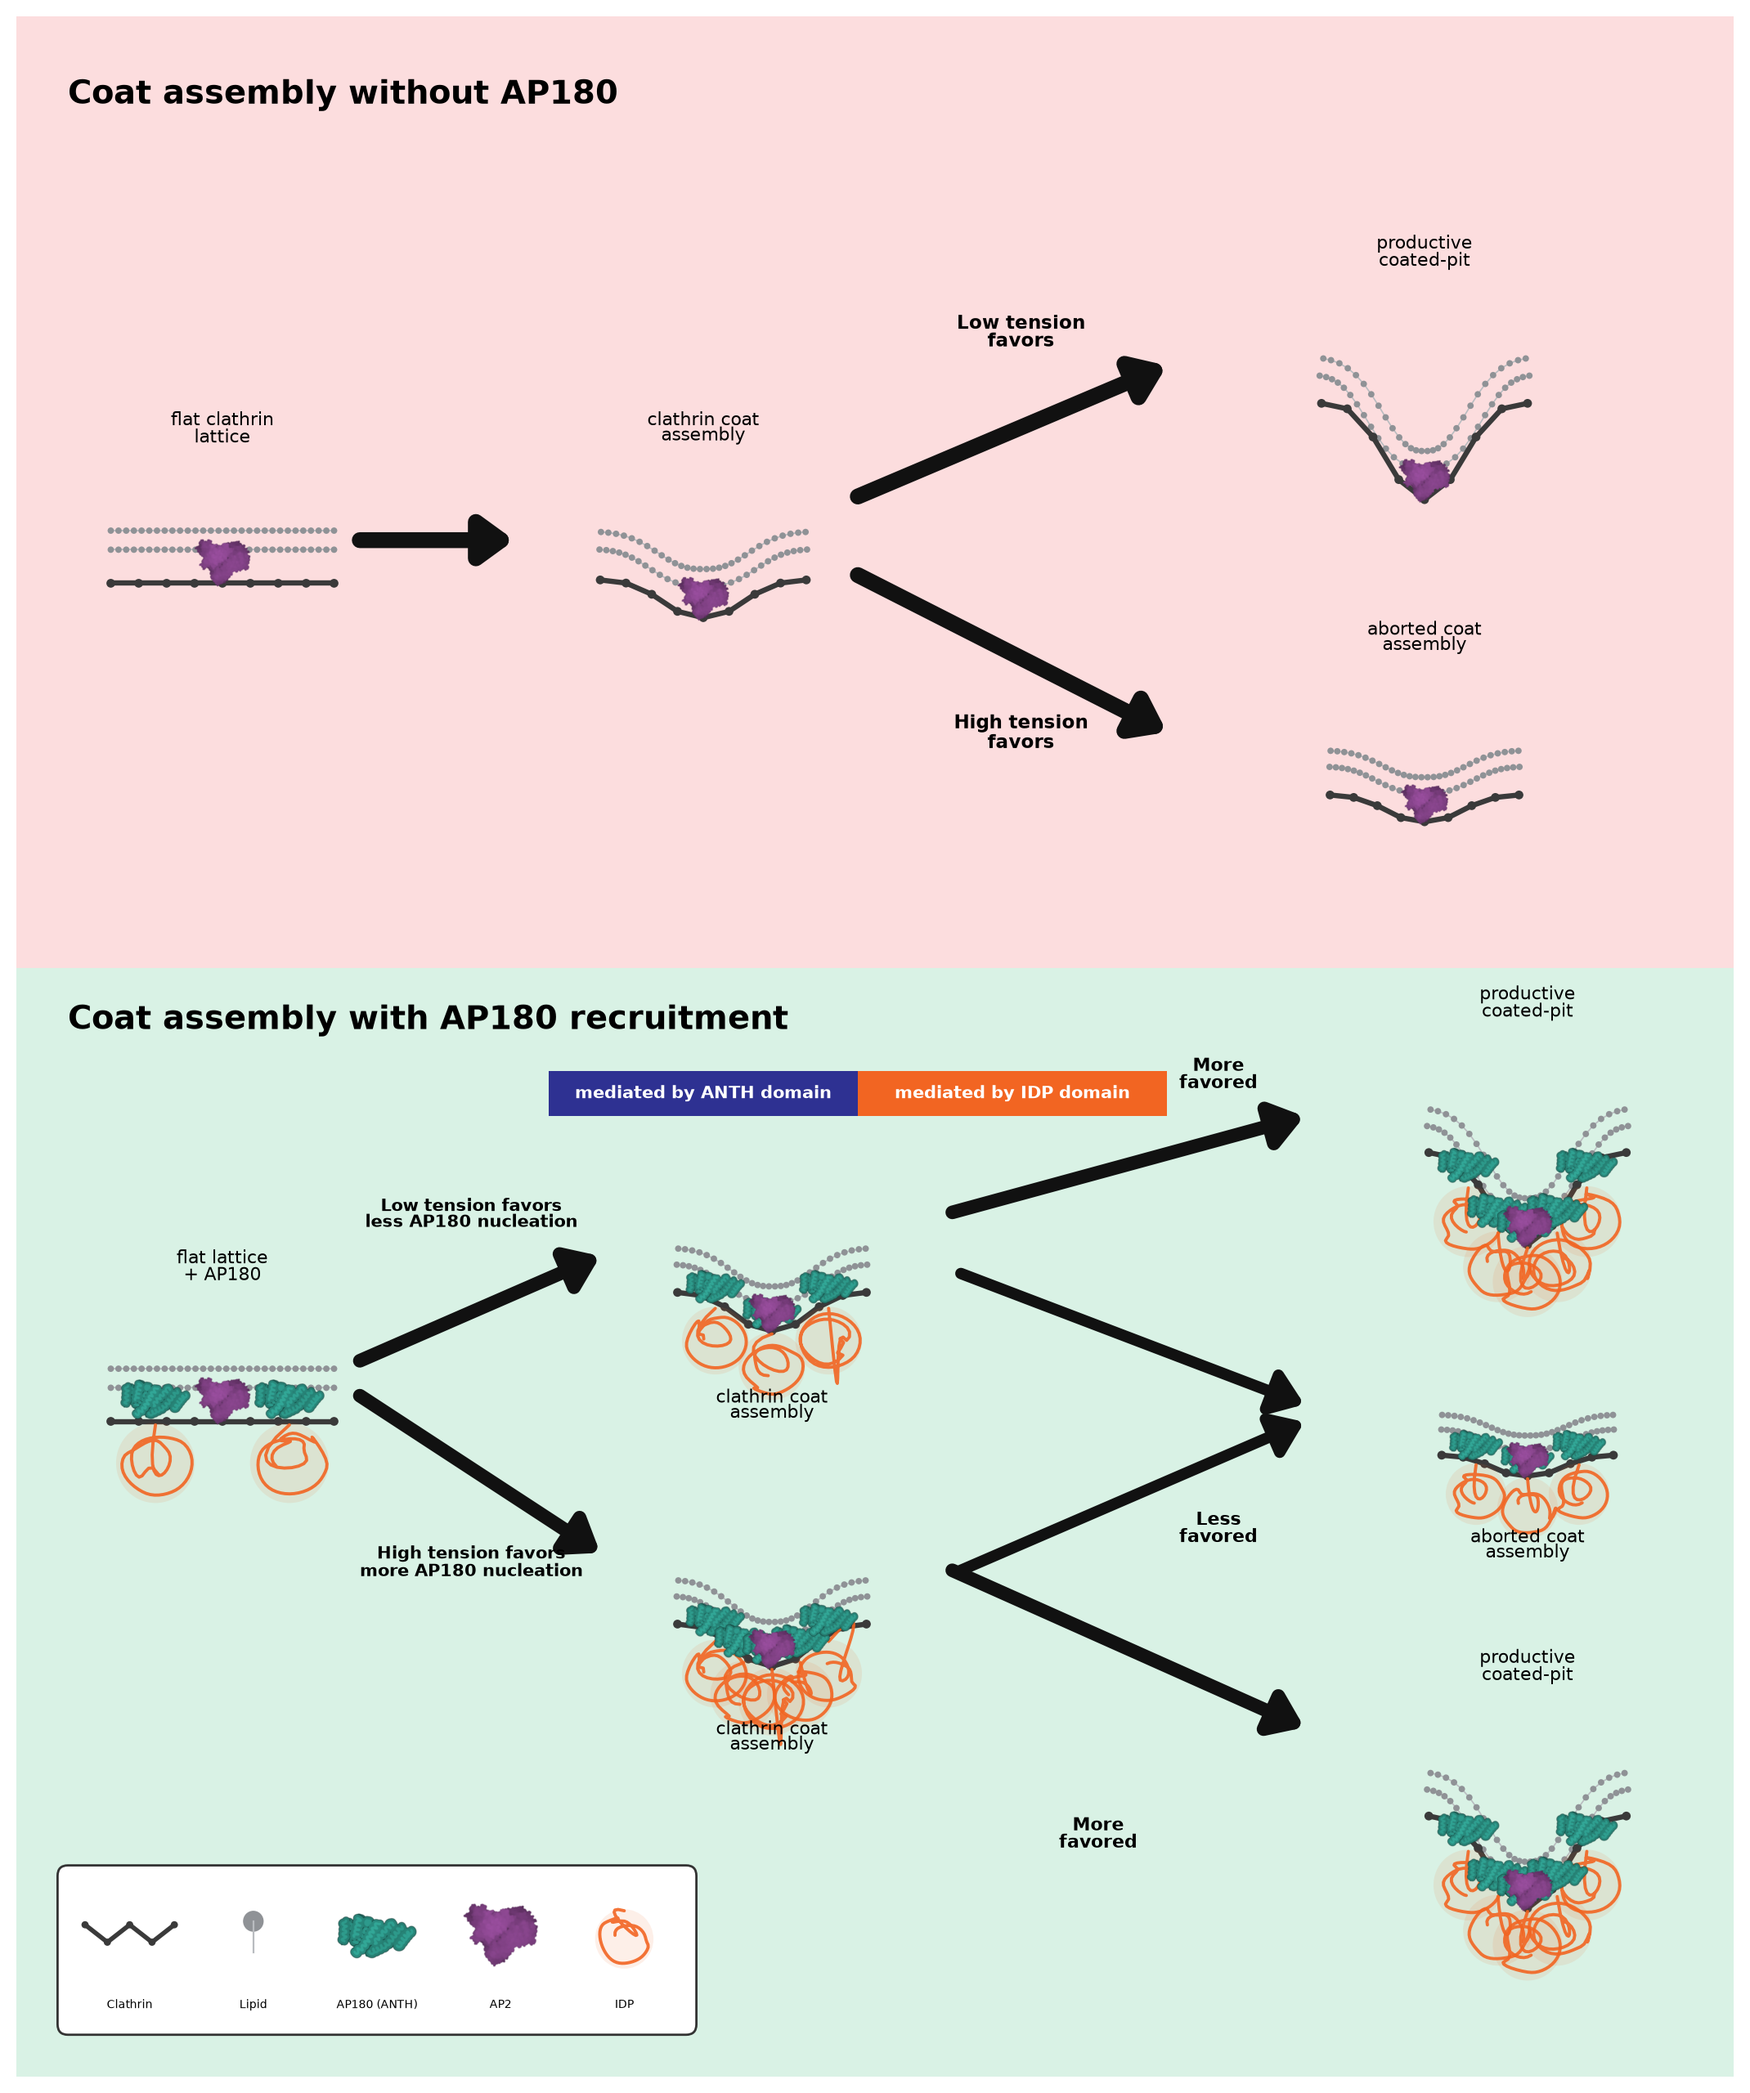
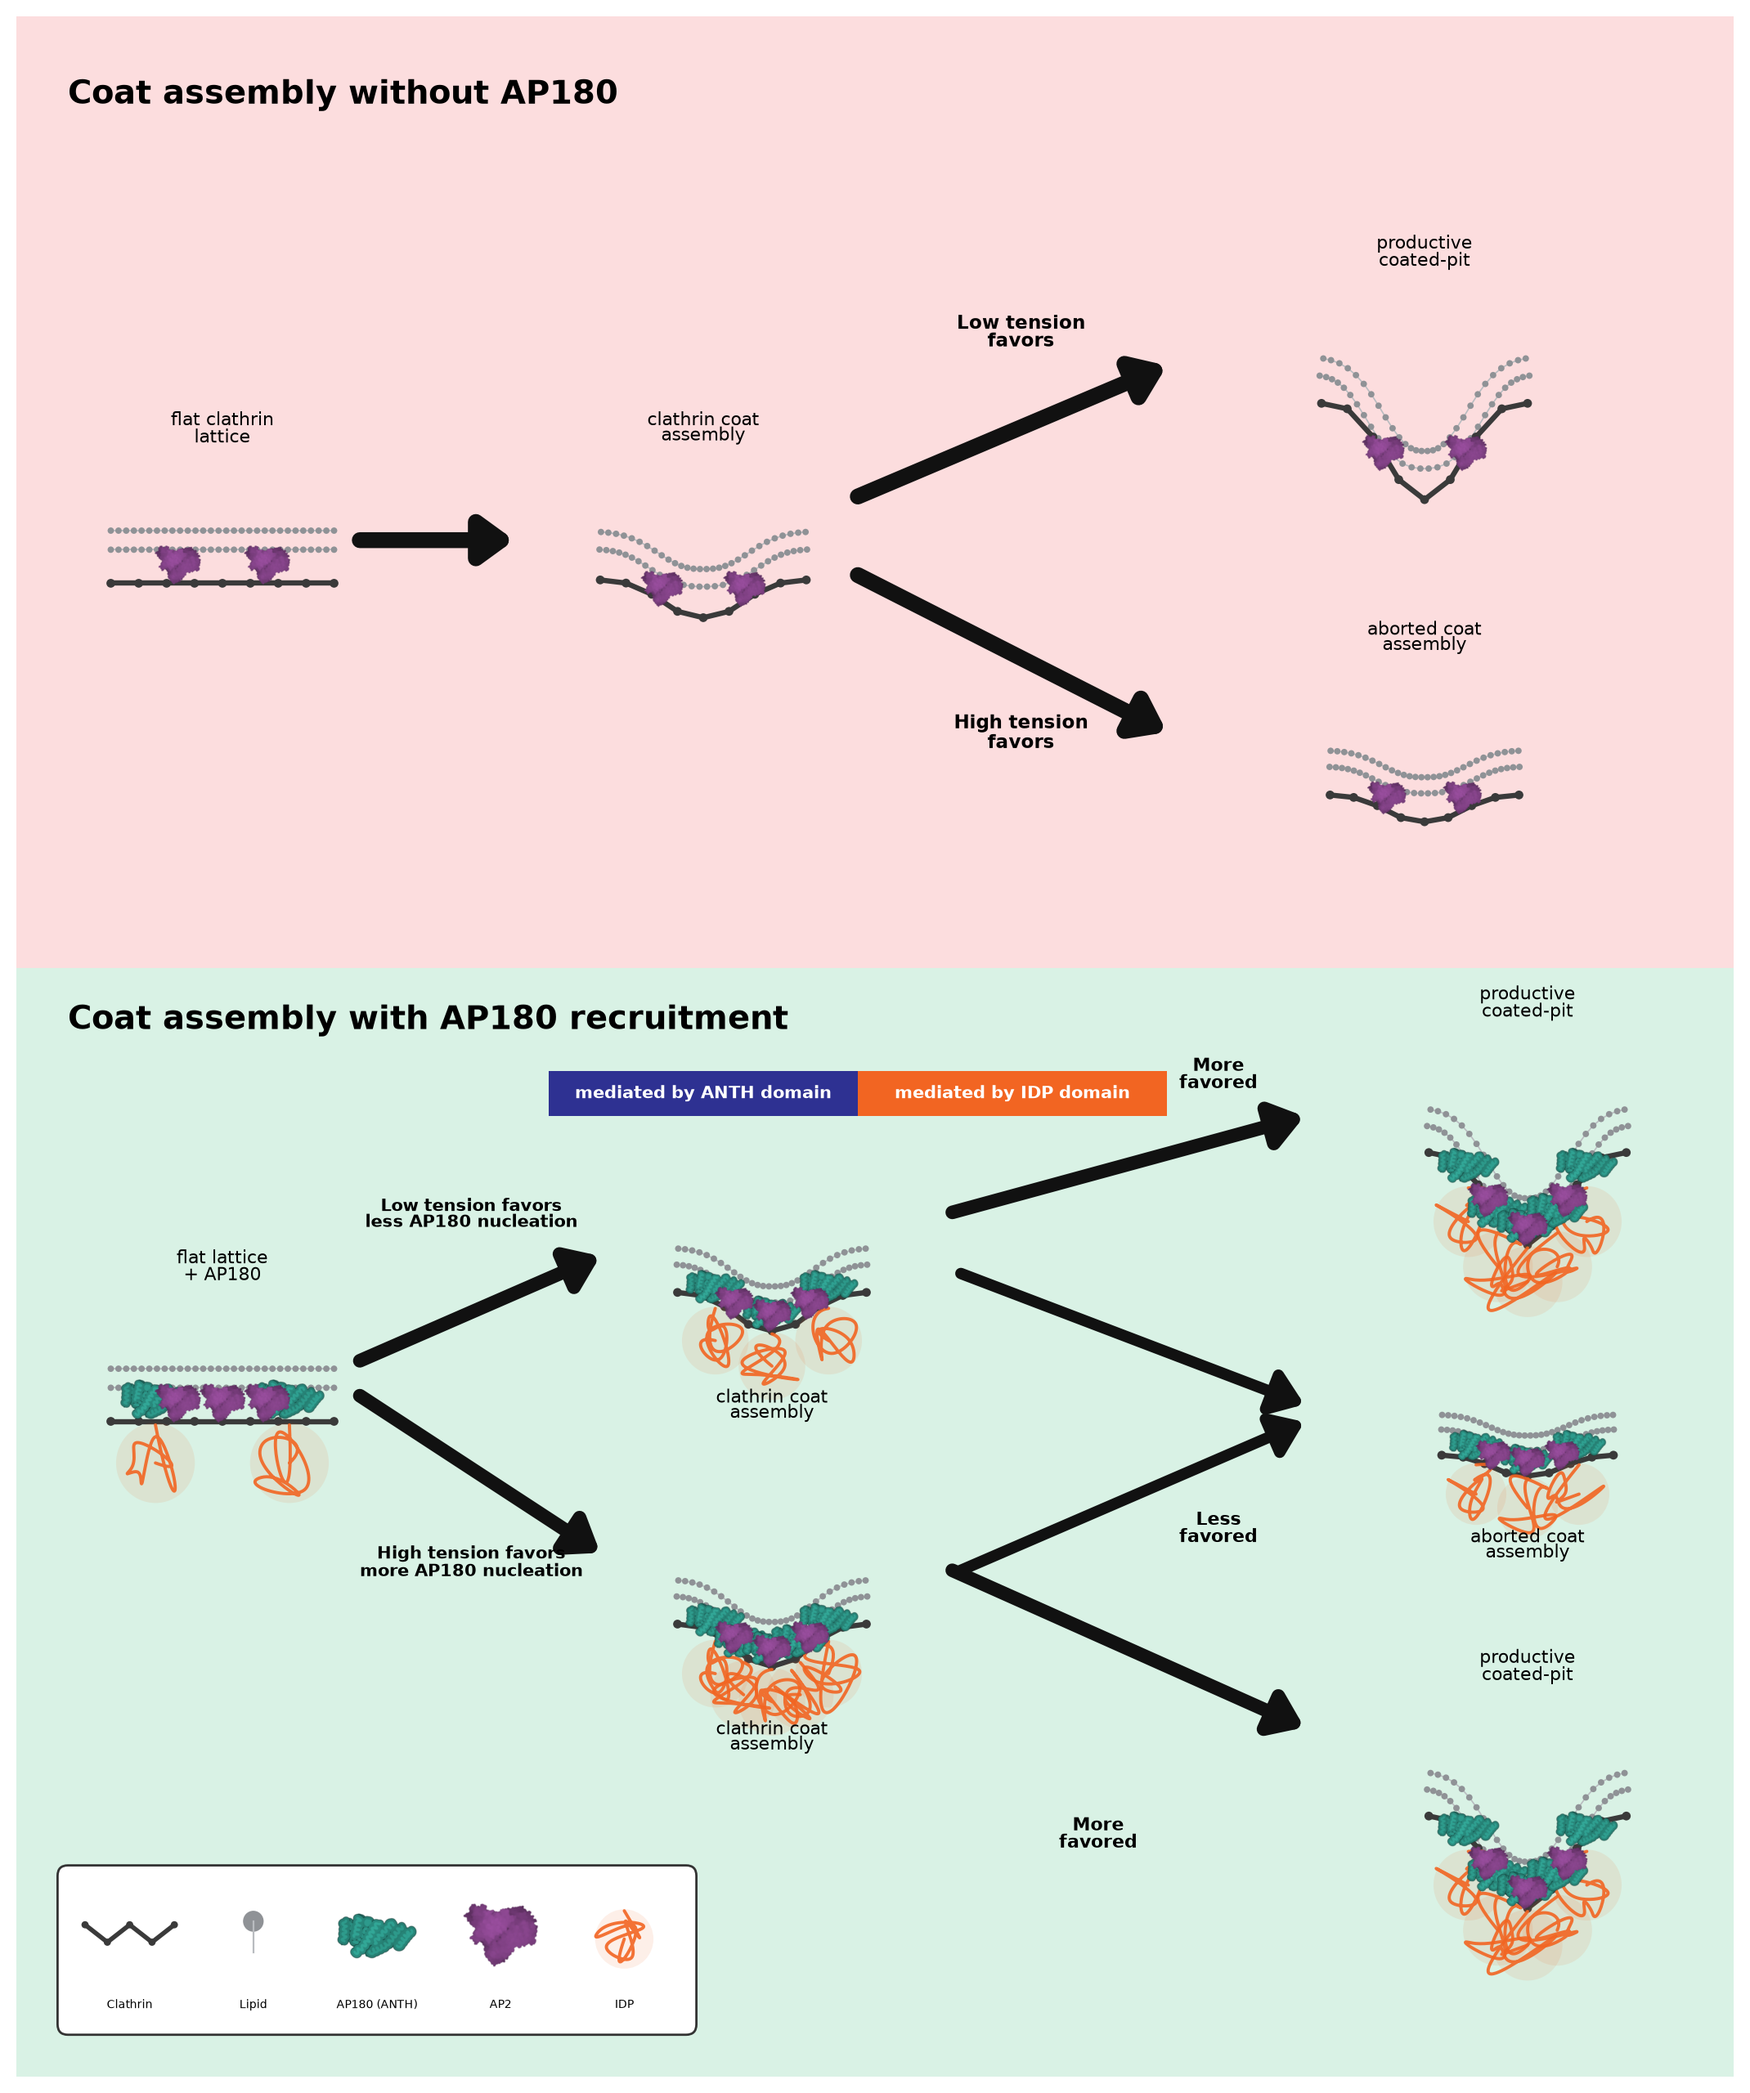
fix: entangled-shoelace IDP + multiple AP2 adaptors per CCP
- IDP drawn as an entangled shoelace (confined self-crossing random walk splined
  through waypoints filling the Rh disc) instead of a smooth spiral coil
- 2-3 atomic AP2 sprites per pit spread along the coat floor (>1 AP2 per CCP),
  replacing the single central adaptor

diff --git a/validation/realdata/schematic_idiom.py b/validation/realdata/schematic_idiom.py
@@ -279,23 +279,26 @@ def draw_ap2(ax, x, y, s=1.0, z=6, w=None):
 
 
 # ================= IDP crowding brush (drawn) =================
-def draw_idp_coil(ax, x0, y0, radius, color=None, seed=0, z=4, down=-1.0, halo=True):
-    """Intrinsically disordered region of ONE molecule as a SINGLE coil anchored at the
-    folded domain's C-terminus (x0, y0). The coil's extent = the IDP's hydrodynamic
-    radius Rh (a steric-hindrance measure); crowding is shown by the overlap of adjacent
-    coils' excluded-volume halos. Epsin = ENTH + IDP; AP180/CALM = ANTH + IDP.
+def draw_idp_coil(ax, x0, y0, radius, color=None, seed=0, z=4, down=-1.0, halo=True,
+                  nseg=9):
+    """Intrinsically disordered region of ONE molecule as a single ENTANGLED shoelace
+    anchored at the folded domain's C-terminus (x0, y0): a smooth confined random walk
+    that folds back and crosses itself, contained within the IDP's hydrodynamic radius
+    Rh (a steric-hindrance measure). Crowding is shown by the overlap of adjacent
+    chains' excluded-volume halos. Epsin = ENTH + IDP; AP180/CALM = ANTH + IDP.
     """
     color = color or PAL["idp"]
     rng = np.random.default_rng(seed)
-    cxc, cyc = x0, y0 + down * radius * 0.95        # coil centre ~Rh from the C-terminus
+    cxc, cyc = x0, y0 + down * radius * 0.95        # chain centre ~Rh from the C-terminus
     if halo:
         ax.add_patch(Circle((cxc, cyc), radius, fc=color, ec="none", alpha=0.10, zorder=z - 0.3))
-    t = np.linspace(0, 1, 20)
-    ang = 2 * np.pi * (1.6 * t) + rng.normal(0, 0.4, 20).cumsum()
-    rr = radius * (0.35 + 0.6 * np.sin(np.pi * t))  # out-and-back -> contained ball
-    px = np.concatenate([[x0], cxc + rr * np.cos(ang)])
-    py = np.concatenate([[y0], cyc + rr * np.sin(ang) * 0.85])
-    sm = _smooth(np.column_stack([px, py]), n=80)
+    # random waypoints filling the Rh disc; spline through them -> self-crossing tangle
+    ang = rng.uniform(0, 2 * np.pi, nseg)
+    rad = radius * np.sqrt(rng.uniform(0.1, 1.0, nseg))
+    wx = np.concatenate([[x0], cxc + rad * np.cos(ang), [cxc]])
+    wy = np.concatenate([[y0], cyc + rad * np.sin(ang) * 0.9, [cyc]])
+    tck, _ = splprep([wx, wy], s=0, k=3)
+    sm = np.array(splev(np.linspace(0, 1, 170), tck)).T
     ax.plot(sm[:, 0], sm[:, 1], color=color, lw=1.4, alpha=0.9, solid_capstyle="round", zorder=z)
 
 
@@ -321,7 +324,13 @@ def node(ax, cx, cy, w, curv, n_eps, neck=False, ap2=True, primary="enth_cartoon
                 draw_idp_coil(ax, cx + ex, ay - ew * 0.34, coil_r,
                               seed=int(abs(cx * 1000) + i), z=4)
     if ap2:
-        draw_ap2(ax, cx, cy - 0.10 * w + _center_depth(w, curv), w=ew * 0.85, z=7)
+        # Multiple AP2 adaptors per coated pit, spread along the coat floor. More
+        # adaptors on a wider/deeper pit; each is an atomic sprite from PDB 2XA7.
+        n_ap2 = 2 if n_eps <= 1 else 3
+        axs = np.linspace(-w * 0.20, w * 0.20, n_ap2)
+        ayc = _profile(axs, w, curv, neck)[0]
+        for k, adx in enumerate(axs):
+            draw_ap2(ax, cx + adx, cy + ayc[k] - 0.11 * w, w=ew * 0.7, z=7 + 0.01 * k)
 
 
 def branch_arrow(ax, x0, y0, x1, y1, lw=7, color=None):
